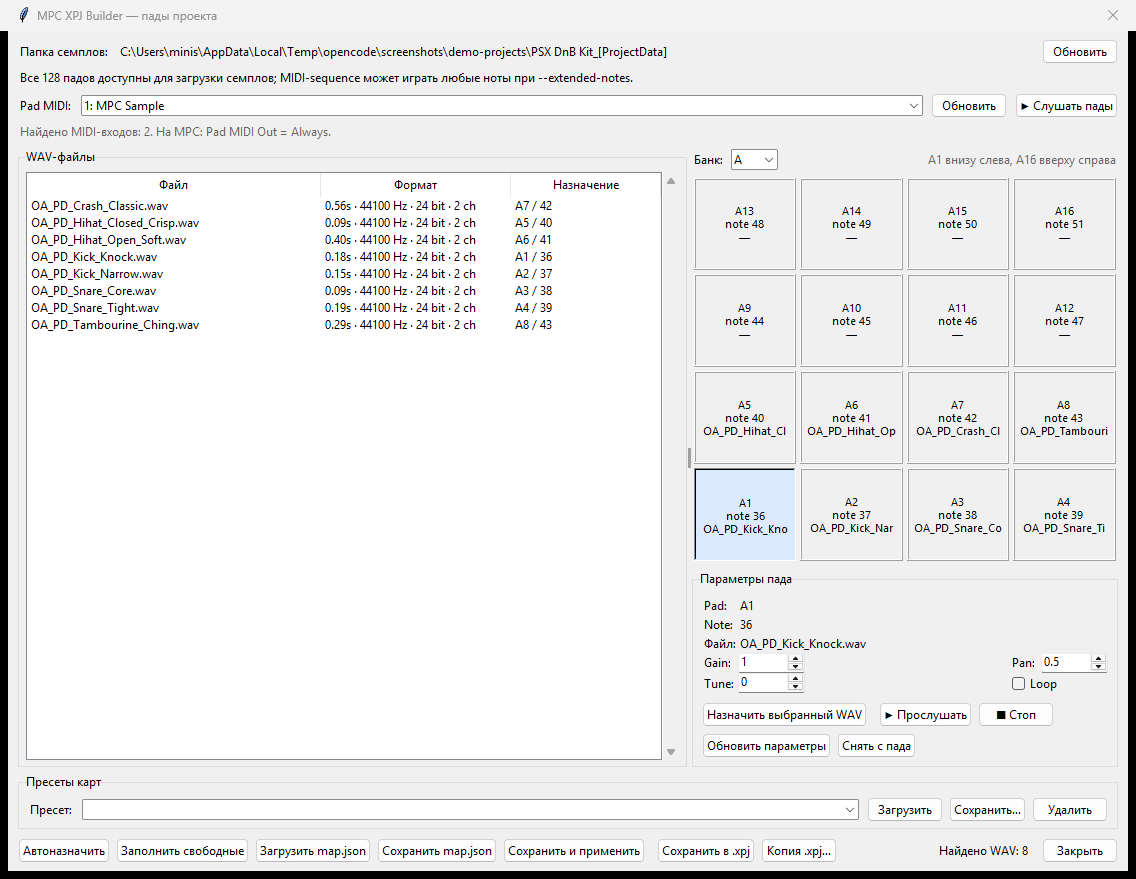
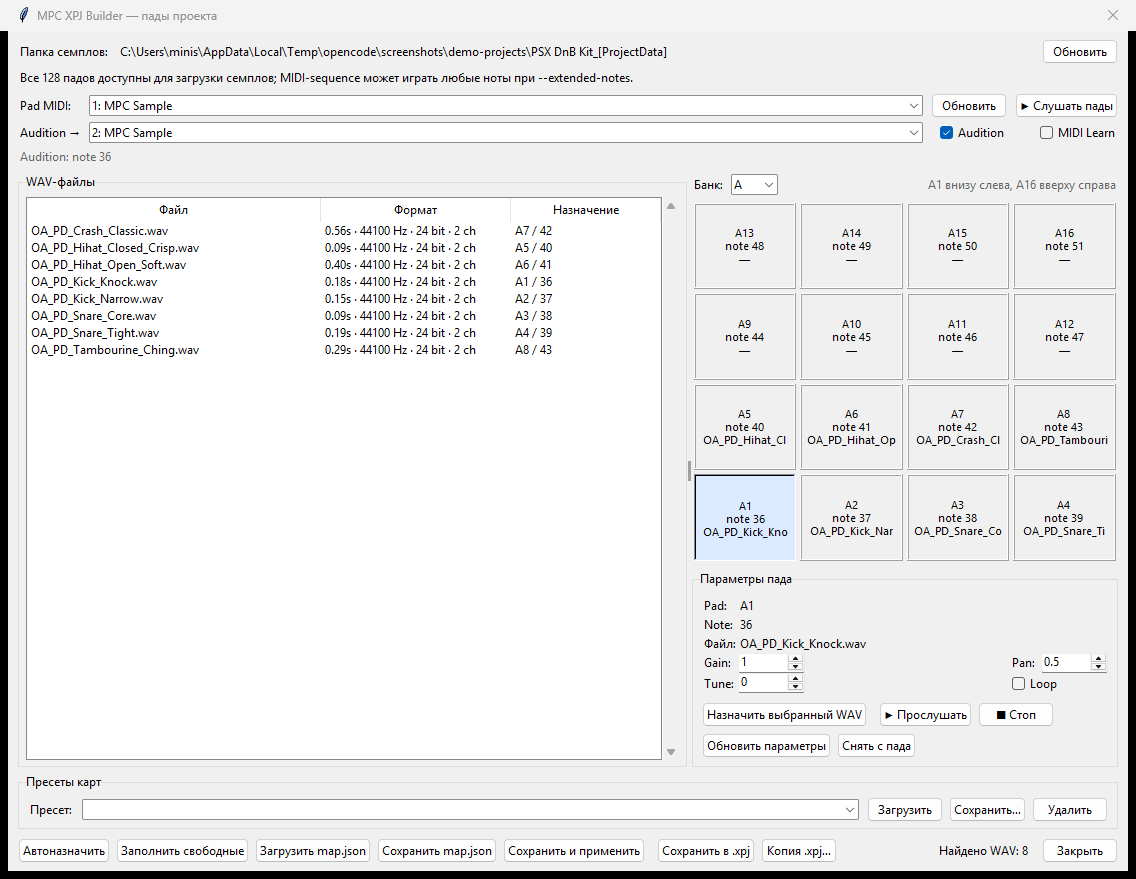
Add pad audition and MIDI Learn

diff --git a/gui_map.py b/gui_map.py
@@ -13,7 +13,14 @@ import kit_map
 import map_presets
 import project_editor
 from errors import ValidationError
-from midi_clock import MidiDevice, MidiInput, decode_note
+from midi_clock import (
+    MidiDevice,
+    MidiInput,
+    MidiOutput,
+    decode_note,
+    note_off,
+    note_on,
+)
 
 PAD_GRID_ROWS = 4
 
@@ -93,6 +100,11 @@ class MapEditorWindow(tk.Toplevel):
         self.midi_input: MidiInput | None = None
         self.midi_queue: queue.Queue[int] = queue.Queue()
         self._midi_after: str | None = None
+        self.midi_out_devices: tuple[MidiDevice, ...] = ()
+        self.midi_out_map: dict[str, int] = {}
+        self.midi_output: MidiOutput | None = None
+        self._audition_after: str | None = None
+        self._audition_note: int | None = None
 
         self.bank_var = tk.StringVar(value="A")
         self.pad_label_var = tk.StringVar(value="—")
@@ -105,6 +117,9 @@ class MapEditorWindow(tk.Toplevel):
         self.status_var = tk.StringVar(value="Выберите пад и WAV.")
         self.preset_var = tk.StringVar(value="")
         self.midi_var = tk.StringVar(value="")
+        self.midi_out_var = tk.StringVar(value="")
+        self.audition_var = tk.BooleanVar(value=True)
+        self.learn_var = tk.BooleanVar(value=False)
         self.midi_status_var = tk.StringVar(value="Pad MIDI выключен.")
         self.preview = audio_preview.AudioPreview()
         self._preview_after: str | None = None
@@ -151,11 +166,35 @@ class MapEditorWindow(tk.Toplevel):
             command=self._toggle_midi,
         )
         self.midi_button.grid(row=0, column=3, sticky="e", padx=(8, 0))
+        ttk.Label(midi_frame, text="Audition →").grid(
+            row=1, column=0, sticky="w", pady=(4, 0)
+        )
+        self.midi_out_combo = ttk.Combobox(
+            midi_frame,
+            textvariable=self.midi_out_var,
+            state="readonly",
+        )
+        self.midi_out_combo.grid(
+            row=1, column=1, sticky="ew", padx=8, pady=(4, 0)
+        )
+        self.midi_out_combo.bind(
+            "<<ComboboxSelected>>", lambda _event: self._close_midi_output()
+        )
+        ttk.Checkbutton(
+            midi_frame,
+            text="Audition",
+            variable=self.audition_var,
+        ).grid(row=1, column=2, sticky="e", pady=(4, 0))
+        ttk.Checkbutton(
+            midi_frame,
+            text="MIDI Learn",
+            variable=self.learn_var,
+        ).grid(row=1, column=3, sticky="e", padx=(8, 0), pady=(4, 0))
         ttk.Label(
             midi_frame,
             textvariable=self.midi_status_var,
             foreground="#666666",
-        ).grid(row=1, column=0, columnspan=4, sticky="w", pady=(4, 0))
+        ).grid(row=2, column=0, columnspan=4, sticky="w", pady=(4, 0))
 
         paned = ttk.Panedwindow(self, orient="horizontal")
         paned.grid(row=1, column=0, sticky="nsew", padx=10)
@@ -519,6 +558,7 @@ class MapEditorWindow(tk.Toplevel):
             return
         self._refresh_pad_grid()
         self._refresh_details()
+        self._audition_pad(self.selected_pad)
 
     def _refresh_pad_grid(self) -> None:
         bank = self.bank_var.get().strip().upper() or "A"
@@ -642,6 +682,7 @@ class MapEditorWindow(tk.Toplevel):
 
     def destroy(self) -> None:
         self._stop_midi()
+        self._close_midi_output()
         self._stop_preview()
         super().destroy()
 
@@ -931,8 +972,68 @@ class MapEditorWindow(tk.Toplevel):
             parent=self,
         )
 
+    def _ensure_midi_output(self) -> bool:
+        if self.midi_output is not None:
+            return True
+        label = self.midi_out_var.get().strip()
+        index = self.midi_out_map.get(label)
+        if index is None:
+            self.midi_status_var.set(
+                "Выберите MIDI-выход для Audition."
+            )
+            return False
+        output = MidiOutput()
+        try:
+            output.open(index)
+        except Exception as exc:
+            output.close()
+            self.midi_status_var.set(f"Audition недоступен: {exc}")
+            return False
+        self.midi_output = output
+        return True
+
+    def _finish_audition(self) -> None:
+        if self._audition_after is not None:
+            try:
+                self.after_cancel(self._audition_after)
+            except Exception:
+                pass
+            self._audition_after = None
+        if self.midi_output is not None and self._audition_note is not None:
+            try:
+                self.midi_output.send(note_off(self._audition_note))
+            except Exception:
+                pass
+        self._audition_note = None
+
+    def _close_midi_output(self) -> None:
+        self._finish_audition()
+        if self.midi_output is not None:
+            self.midi_output.close()
+            self.midi_output = None
+
+    def _audition_pad(self, pad_index: int | None) -> None:
+        if pad_index is None or not self.audition_var.get():
+            return
+        note = self.pad_to_note.get(pad_index)
+        if note is None:
+            return
+        if not self._ensure_midi_output():
+            return
+        assert self.midi_output is not None
+        try:
+            self.midi_output.send(note_on(note, 100))
+        except Exception as exc:
+            self.midi_status_var.set(f"Audition недоступен: {exc}")
+            self._close_midi_output()
+            return
+        self._finish_audition()
+        self._audition_note = note
+        self._audition_after = self.after(220, self._finish_audition)
+        self.midi_status_var.set(f"Audition: note {note}")
+
     def _refresh_midi_devices(self) -> None:
-        if self.midi_input is not None:
+        if self.midi_input is not None or self.midi_output is not None:
             return
         self.midi_devices = MidiInput.list_devices()
         displays = [f"{device.index}: {device.name}" for device in self.midi_devices]
@@ -951,13 +1052,39 @@ class MapEditorWindow(tk.Toplevel):
                 displays[0],
             )
             self.midi_var.set(preferred)
-            self.midi_status_var.set(
-                f"Найдено MIDI-входов: {len(displays)}. "
-                "На MPC: Pad MIDI Out = Always."
-            )
         else:
             self.midi_var.set("")
-            self.midi_status_var.set("MIDI-входы не найдены.")
+
+        self.midi_out_devices = MidiOutput.list_devices()
+        out_displays = [
+            f"{device.index}: {device.name}"
+            for device in self.midi_out_devices
+        ]
+        self.midi_out_map = {
+            f"{device.index}: {device.name}": device.index
+            for device in self.midi_out_devices
+        }
+        self.midi_out_combo.configure(values=out_displays)
+        if out_displays:
+            preferred_out = next(
+                (
+                    display
+                    for display in out_displays
+                    if "mpc" in display.casefold()
+                ),
+                out_displays[0],
+            )
+            self.midi_out_var.set(preferred_out)
+        else:
+            self.midi_out_var.set("")
+
+        if displays or out_displays:
+            self.midi_status_var.set(
+                f"MIDI: входов {len(displays)}, выходов {len(out_displays)}. "
+                "На MPC: Pad MIDI Out = Always; для Audition — Pad MIDI In = On."
+            )
+        else:
+            self.midi_status_var.set("MIDI-устройства не найдены.")
 
     def _toggle_midi(self) -> None:
         if self.midi_input is not None:
@@ -1013,13 +1140,40 @@ class MapEditorWindow(tk.Toplevel):
             kit_map.BANK_NAMES[pad // kit_map.PADS_PER_BANK]
         )
         self.selected_pad = pad
+        learned: str | None = None
+        if self.learn_var.get():
+            selection = self.tree.selection()
+            if selection:
+                params = self._read_params()
+                if params is not None:
+                    gain, pan, tune, loop = params
+                    relative = selection[0]
+                    self.assignments[pad] = kit_map.PadAssignment(
+                        pad_index=pad,
+                        file=relative,
+                        gain=gain,
+                        pan=pan,
+                        tune=tune,
+                        loop=loop,
+                    )
+                    self._refresh_tree()
+                    learned = relative
         self._refresh_pad_grid()
         self._refresh_details()
         label = kit_map.bank_pad_label(pad)
         self.status_var.set(
             f"MPC: {label} · note {note} · velocity {velocity}"
         )
-        self.midi_status_var.set(f"Pad MIDI: {label} · note {note}")
+        if learned is not None:
+            self.midi_status_var.set(
+                f"MIDI Learn: {learned} → {label}"
+            )
+        elif self.learn_var.get():
+            self.midi_status_var.set(
+                f"MIDI Learn: выбран {label}; выберите WAV в списке."
+            )
+        else:
+            self.midi_status_var.set(f"Pad MIDI: {label} · note {note}")
 
     def _stop_midi(self) -> None:
         if self._midi_after is not None:

diff --git a/midi_clock.py b/midi_clock.py
@@ -35,6 +35,14 @@ def decode_note(message: int) -> tuple[int, int] | None:
     return note, velocity
 
 
+def note_on(note: int, velocity: int = 100, channel: int = 0) -> int:
+    return 0x90 | (channel & 0x0F) | ((note & 0x7F) << 8) | ((velocity & 0x7F) << 16)
+
+
+def note_off(note: int, channel: int = 0) -> int:
+    return 0x80 | (channel & 0x0F) | ((note & 0x7F) << 8)
+
+
 @dataclass(frozen=True)
 class MidiDevice:
     index: int
@@ -160,7 +168,7 @@ class MidiOutput:
     def send(self, status: int) -> None:
         if self._handle is None or self._winmm is None:
             raise RuntimeError("MIDI-выход не открыт.")
-        result = self._winmm.midiOutShortMsg(self._handle, status & 0xFF)
+        result = self._winmm.midiOutShortMsg(self._handle, status & 0xFFFFFF)
         if result != 0:
             raise RuntimeError(self._error_text(result))
 

diff --git a/tests/test_midi_clock.py b/tests/test_midi_clock.py
@@ -15,6 +15,8 @@ from midi_clock import (
     MidiInput,
     MidiOutput,
     decode_note,
+    note_off,
+    note_on,
 )
 
 
@@ -149,6 +151,11 @@ class MidiClockTests(unittest.TestCase):
     def test_decode_note_off_and_clock(self) -> None:
         self.assertIsNone(decode_note(0x80 | (36 << 8) | (40 << 16)))
         self.assertIsNone(decode_note(CLOCK))
+
+    def test_note_message_encoding(self) -> None:
+        self.assertEqual(note_on(36, 100), 0x90 | (36 << 8) | (100 << 16))
+        self.assertEqual(note_off(36), 0x80 | (36 << 8))
+        self.assertEqual(decode_note(note_on(38, 80)), (38, 80))
 
 
 if __name__ == "__main__":

diff --git a/version.py b/version.py
@@ -1,3 +1,3 @@
 """Версия mpc_xpj_builder."""
 
-__version__ = "1.8.0"
+__version__ = __version__ = "1.9.0"

diff --git a/docs/USER_GUIDE.md b/docs/USER_GUIDE.md
@@ -1,6 +1,6 @@
 # Руководство пользователя
 
-**mpc-xpj-builder 1.8.0** — сборка проектов `.xpj` для **Akai MPC Sample** из
+**mpc-xpj-builder 1.9.0** — сборка проектов `.xpj` для **Akai MPC Sample** из
 папки WAV и одного Standard MIDI File.
 
 Инструмент не пишет формат `.xpj` с нуля: он клонирует эталонный проект,
@@ -13,7 +13,7 @@
 
 ### Вариант A. Установщик
 
-1. Скачайте `mpc-xpj-builder-v1.8.0-setup.exe` со страницы
+1. Скачайте `mpc-xpj-builder-v1.9.0-setup.exe` со страницы
    [Releases](https://github.com/cursednik/mpc-xpj-builder/releases).
 2. Запустите установщик.
 3. Windows может показать предупреждение SmartScreen, потому что установщик не
@@ -24,7 +24,7 @@
 
 ### Вариант B. Портативная версия
 
-1. Скачайте `mpc-xpj-builder-v1.8.0-win64.zip`.
+1. Скачайте `mpc-xpj-builder-v1.9.0-win64.zip`.
 2. Распакуйте архив в любую папку.
 3. Запустите `mpc-xpj-builder-gui.exe`.
 
@@ -203,6 +203,18 @@ GUI запоминает до 10 созданных проектов. Выбер
 4. Нажимайте пады на MPC — приложение подсветит пад и покажет note/velocity.
 
 Это монитор нажатий. Он не меняет назначения на MPC.
+
+### Audition и MIDI Learn
+
+- **Audition** — клик по паду в приложении отправляет ноту на MPC. Нужен
+  MIDI-выход `MPC Sample` и на MPC `Pad MIDI In = On`. Галочку `Audition`
+  можно отключить.
+- **MIDI Learn** — выберите WAV, включите `MIDI Learn`, нажмите пад на MPC.
+  WAV назначится на пад с текущими `gain`/`pan`/`tune`/`loop`. После этого
+  сохраните проект в `.xpj`.
+
+Изменения назначений не уходят на MPC в реальном времени: сохраните `.xpj` и
+перезагрузите проект на устройстве.
 
 ## 4. Браузер проектов
 
